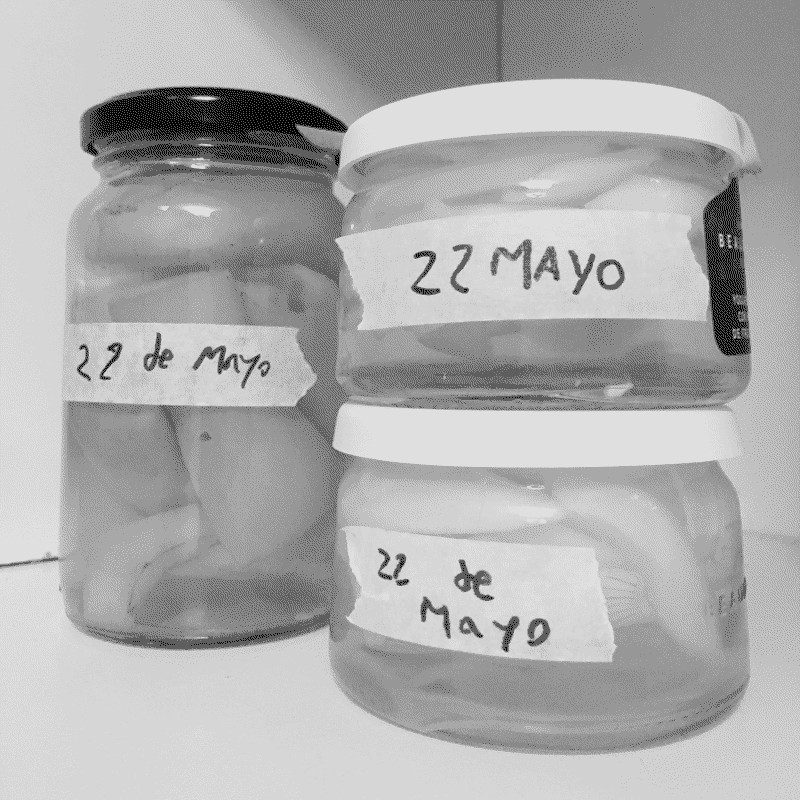
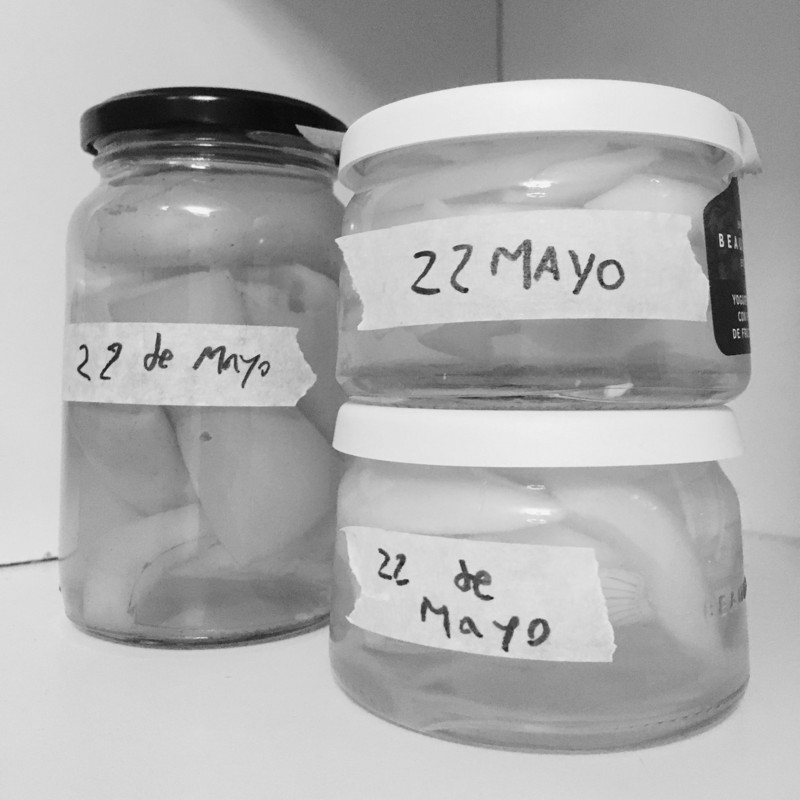
Upload Sun May 23 20:56:53 -03 2021

diff --git a/docs/log_2021-05-23.html b/docs/log_2021-05-23.html
@@ -1,0 +1,118 @@
+<!DOCTYPE html>
+<html>
+<head>
+<title>Lartunet — Walking around</title>
+<link rel="stylesheet" href="styles.css">
+<meta charset="utf-8">
+<meta name="viewport" content="width=device-width, initial-scale=1">
+<link rel="shortcut icon" type="image/png" href="images/fuyukogif2.png" />
+<meta name="description" content="Log entry at lartunet.">
+</head><!-- Global site tag (gtag.js) - Google Analytics -->
+            <script async src="https://www.googletagmanager.com/gtag/js?id=UA-130871915-2"></script>
+            <script>
+            window.dataLayer = window.dataLayer || [];
+            function gtag(){dataLayer.push(arguments);}
+            gtag('js', new Date());
+
+            gtag('config', 'UA-130871915-2');
+            </script>
+            
+<body>
+<table style="border-collapse: collapse;">
+    <tr>
+        <td>
+            <div style="display: block; width: 50px;">
+            <div class="img"><img src ="images/R07T20.gif" title="R07T20" alt="Image: R07T20"></div>
+            </div>
+        </td>
+        <td>
+            lartunet
+            — <a href="index.html">home</a>
+            — <a href="computing.html">computing</a>
+            : <a href="gamesart.html">games & art</a>
+            : <a href="research.html">research</a>
+            — <a href="sitemap.html">sitemap</a>
+        </td>
+    </tr>
+</table>
+
+<h1>2021-05-23: Walking around</h1>
+
+Second day in a row I'm writting in this log. Don't get used to it,
+but here's to keeping doing stuff now and then.
+<div class="split"></div>
+Today I had some free time, so I decided to go out and walk a little with
+no destination in mind. I just chose a road and walked to see what I could
+find. And find new things I did, which is always something good. Sadly, it
+wasn't drizzling anymore. I like when it does.
+<div class="split"></div>
+
+My original idea was to go out and buy some take-away coffee. While at
+home, I had cooked myself a plate of half-English mess, that's half a full
+English breakfast, without the English part and half the dish, so I wasn't
+feeling up for coffee anymore. I just went out for the walking part.
+
+<div class="bigimg"><img src ="images/c_L29P12.JPEG" title="L29P12" alt="Image: L29P12"><small>— L29P12 (b&w version)  (JPEG) - <a href="images/L29P12.JPG" target=_blank>view original</a> (1330 KiB, JPG)</small></div>
+
+A few blocks away from home I stopped at a plant shop. I wanted to buy
+a pot and some dirt for the leek I started growing
+<a href="log_2021-05-22.html">yesterday</a>, but due to the lockdown you couldn't
+go into the store, so I took note of their website to check their stock
+later. They sell pretty pretty pots.
+
+<div class="bigimg"><img src ="images/c_X97R90.JPEG" title="X97R90" alt="Image: X97R90"><small>— X97R90 (b&w version)  (JPEG) - <a href="images/X97R90.JPG" target=_blank>view original</a> (3271 KiB, JPG)</small></div>
+
+From there, I kept walking aimlessly. The streets were empty and quite
+silent. I like that. Also they were covered by leaves from yesterday's rain.
+I found an old storage building with a crane atop.
+I had never seen it. I have not seen many things in my neighbourhood.
+That's part of the reason I'm trying to go out more.
+
+<div class="bigimg"><img src ="images/c_M02T44.JPEG" title="M02T44" alt="Image: M02T44"><small>— M02T44 (b&w version)  (JPEG) - <a href="images/M02T44.JPG" target=_blank>view original</a> (2123 KiB, JPG)</small></div>
+
+Then I found a bar that looked quite nice. Of course, I hadn't been
+there before. When the people from the bar saw me taking photos of their
+shop, a waiter came out and gave me a take-away menu of the place. Great
+service. I may buy food there in the future.
+
+<div class="bigimg"><img src ="images/c_C83I31.JPEG" title="C83I31" alt="Image: C83I31"><small>— C83I31 (b&w version)  (JPEG) - <a href="images/C83I31.JPG" target=_blank>view original</a> (2743 KiB, JPG)</small></div>
+
+They also had a very pretty, old-school round sign outside. I don't know
+if I'd classify the place as a <i>bar</i> per sé, but the sign said bar, so
+that's the nomenclature I'm using.
+
+<div class="bigimg"><img src ="images/c_I03E58.JPEG" title="I03E58" alt="Image: I03E58"><small>— I03E58 (b&w version)  (JPEG) - <a href="images/I03E58.JPG" target=_blank>view original</a> (1130 KiB, JPG)</small></div>
+
+After that, I kept wandering about. I passed by a drug store and bought some
+antihistamines. If there's something I'm allergic to, it's every single
+thing. And I was running out, so that was a nice stop. I also bought a
+handheld electric massager. It was on sale and I like those things.
+I haven't tried it yet, though.
+
+<div class="bigimg"><img src ="images/c_V11W88.JPEG" title="V11W88" alt="Image: V11W88"><small>— V11W88 (b&w version)  (JPEG) - <a href="images/V11W88.JPG" target=_blank>view original</a> (1224 KiB, JPG)</small></div>
+
+Overall it was a very nice walk, I came back home refreshed and ready to
+carry on studying. Tomorrow we meet with the Eterspire development team
+to begin working on the content sprint. An afternoon spent world-building,
+a dream come true! And hopefully, an interesting day to talk about.
+
+<div class="bigimg"><img src ="images/c_I39U11.JPEG" title="I39U11" alt="Image: I39U11"><small>— I39U11 (b&w version)  (JPEG) - <a href="images/I39U11.JPG" target=_blank>view original</a> (2855 KiB, JPG)</small></div>
+
+
+<br>
+<br>
+<br>
+
+
+<a href="https://twitter.com/martulartu" class="external" target=_blank><img src ="images/Y38U40.png" class="mediabutton" title="Y38U40" alt="Image: Y38U40"></a>
+<a href="https://github.com/lartu" class="external" target=_blank><img src ="images/R04A57.png" class="mediabutton" title="R04A57" alt="Image: R04A57"></a>
+<a href="https://lartu.itch.io/" class="external" target=_blank><img src ="images/W73K11.png" class="mediabutton" title="W73K11" alt="Image: W73K11"></a>
+
+<br>
+
+<small><b>Lartu</b> © 2015 - 2021 — Released under the
+<a href="https://creativecommons.org/licenses/by-nc-sa/3.0/" class="external" target=_blank>Creative Commons Attribution-NonCommercial-ShareAlike 3.0 Unported</a>
+License.
+</small>
+</body>
+</html>

diff --git a/docs/sitemap.html b/docs/sitemap.html
@@ -56,6 +56,7 @@ This is a list of all the pages that comprise the lartunet.
 <li><a href="garden.html">Lartunet — Digital Gardens</a></li>
 <li><a href="log.html">Lartunet — Log</a></li>
 <li><a href="gamesart.html">Lartunet — Games & Art</a></li>
+<li><a href="log_2021-05-23.html">Lartunet — Walking around</a></li>
 <li><a href="log_2021-05-22.html">Lartunet — Pickles and Rain</a></li>
 <li><a href="mitsubachi.html">Lartunet — Mitsubachi</a></li>
 <li><a href="slang.html">Lartunet — S Language Interpreter</a></li>

diff --git a/coso.py b/coso.py
@@ -251,6 +251,7 @@ def compile(source, with_head=True, do_multiple_passes=True, filename=""):
                 file_ext = file_ext.strip(".")
                 img_file = IMAGES_DIR + "/" + image_filename
                 picture = Image.open(img_file)
+                picture = ImageOps.exif_transpose(picture)
                 width = picture.size[0]
                 height = picture.size[1]
                 imghash = get_image_hash_name(image_title)
@@ -274,13 +275,6 @@ def compile(source, with_head=True, do_multiple_passes=True, filename=""):
                     new_image.paste(picture, (0, 0), picture)
                     if black_and_white:
                         picture = ImageOps.grayscale(new_image)
-                        picture = picture.convert("RGB")
-                        pal_image = picture.quantize(colors=8)
-                        picture = picture.quantize(palette=pal_image)
-                    elif compression_format == "GIF":
-                        picture = picture.convert("RGB")
-                        pal_image = picture.quantize(colors=256)
-                        picture = picture.quantize(palette=pal_image)
                     if picture.mode == "P" and compression_format != "GIF":
                         picture = picture.convert("RGB")
                     if compression_format == "JPEG":
